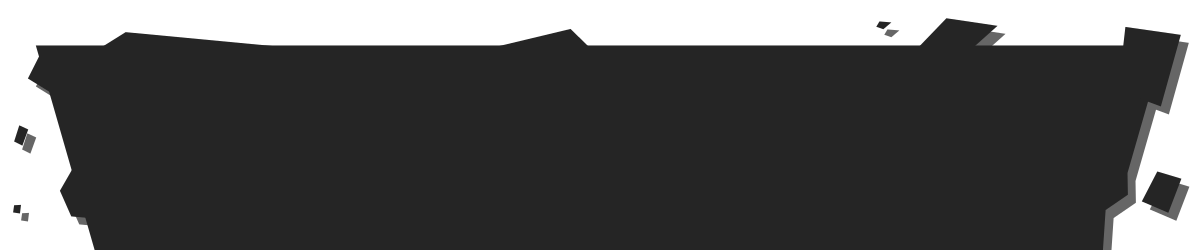
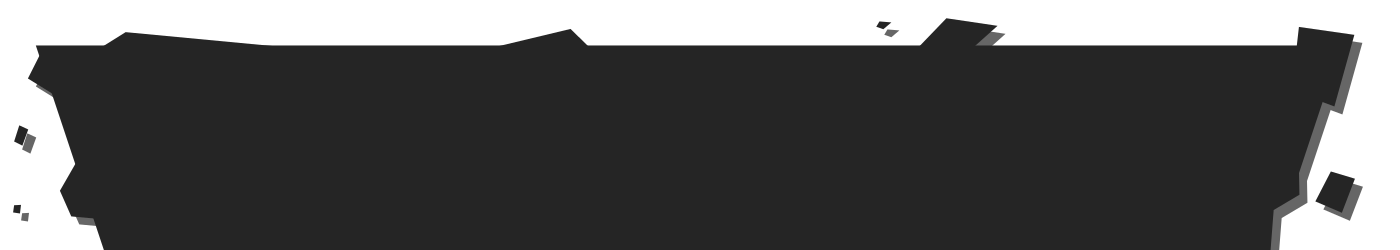
Add Save/Load

diff --git a/src/main/kotlin/gui/GameScene.kt b/src/main/kotlin/gui/GameScene.kt
@@ -266,9 +266,9 @@ class GameScene(
      * The background for the toolbar at the bottom of the screen.
      */
     private val toolbarBackground = Label(
-        width = 650,
+        width = 756,
         height = 135,
-        posX = boardGrid.posX - 650 / 2,
+        posX = boardGrid.posX - 756 / 2,
         posY = 1080 - 135,
         visual = ImageVisual("GameScene/Exports/ToolbarBg.png")
     )
@@ -277,13 +277,30 @@ class GameScene(
      * The layout for the toolbar at the bottom of the screen that contains all toolbar buttons (speed, undo, redo).
      */
     private val toolbarLayout = LinearLayout<TokenView>(
-        width = 640,
+        width = 756,
         height = 50,
         posX = boardGrid.posX,
         posY = 990,
         spacing = 40,
         horizontalAlignment = HorizontalAlignment.CENTER
     )
+
+    /**
+     * The undo button in the toolbar at the bottom.
+     */
+    private val saveButton = TokenView(
+        width = 50,
+        height = 50,
+        visual = ImageVisual("GameScene/Button_Save.png")
+    ).apply {
+        onMouseClicked = {
+            val game = root.currentGame
+
+            if (game != null) {
+                root.fileService.saveGame()
+            }
+        }
+    }
 
     /**
      * The undo button in the toolbar at the bottom.
@@ -296,8 +313,7 @@ class GameScene(
         onMouseClicked = {
             val game = root.currentGame
 
-            if (!blockMovementInput && game != null && game.undoStack.isNotEmpty()
-            ) {
+            if (!blockMovementInput && game != null && game.undoStack.isNotEmpty()) {
                 root.playerActionService.undo()
             }
         }
@@ -314,8 +330,7 @@ class GameScene(
         onMouseClicked = {
             val game = root.currentGame
 
-            if (!blockMovementInput && game != null && game.redoStack.isNotEmpty()
-            ) {
+            if (!blockMovementInput && game != null && game.redoStack.isNotEmpty()) {
                 root.playerActionService.redo()
             }
         }
@@ -367,7 +382,7 @@ class GameScene(
     //endregion
     //endregion
 
-    //region Animations
+    //region Animation Variables
 
     /**
      * This multiplier is applied to every delay and animation
@@ -431,6 +446,7 @@ class GameScene(
         backToMenuButtonPane.add(backToMenuButton)
 
         toolbarLayout.addAll(
+            saveButton,
             undoButton,
             redoButton,
             pauseButton
@@ -581,12 +597,22 @@ class GameScene(
     }
 
     override fun refreshAfterUndo() {
-        setSimulationSpeed(0)
+        val game = checkNotNull(root.currentGame) { "No game is currently running." }
+
+        if (game.currentState.players.any { it.type == PlayerType.BOT }) {
+            setSimulationSpeed(0)
+        }
+
         updateAllInstant()
     }
 
     override fun refreshAfterRedo() {
-        setSimulationSpeed(0)
+        val game = checkNotNull(root.currentGame) { "No game is currently running." }
+
+        if (game.currentState.players.any { it.type == PlayerType.BOT }) {
+            setSimulationSpeed(0)
+        }
+
         updateAllInstant()
     }
 
@@ -744,7 +770,7 @@ class GameScene(
         // Hide pause button if no bots are in the game. Show it otherwise.
         if (currentState.players.any { it.type == PlayerType.BOT }) {
             if (!toolbarLayout.contains(pauseButton))
-                toolbarLayout.add(pauseButton, 2)
+                toolbarLayout.add(pauseButton, 3)
         } else {
             if (toolbarLayout.contains(pauseButton))
                 toolbarLayout.remove(pauseButton)
@@ -775,7 +801,7 @@ class GameScene(
 
     //endregion
 
-    //region Helpers
+    //region Instant Updates
 
     /**
      * Updates all tiles, players, and other visuals in the current game without any animations.
@@ -815,6 +841,7 @@ class GameScene(
         for ((position, tile) in currentState.board) {
             val view = tileViews.forward(position)
 
+            // Simply "view.showBack()" would be better, but a bug in BGW is preventing this.
             if (tile.collapsed && view.visual != view.backVisual)
                 playAnimation(
                     FlipAnimation(
@@ -919,6 +946,10 @@ class GameScene(
             }
         }
     }
+
+    //endregion
+
+    //region Helpers
 
     /**
      * Sets the simulation speed of the current game.

diff --git a/src/main/kotlin/service/FileService.kt b/src/main/kotlin/service/FileService.kt
@@ -41,6 +41,7 @@ class FileService(private val root: RootService) : AbstractRefreshingService() {
 
         val json = Json {
             allowStructuredMapKeys = true
+            prettyPrint = true
         }
         val jsonString = json.encodeToString(game)
         File(saveFilePath).writeText(jsonString)

diff --git a/src/main/kotlin/gui/CollapsiApplication.kt b/src/main/kotlin/gui/CollapsiApplication.kt
@@ -43,5 +43,9 @@ class CollapsiApplication : BoardGameApplication("Collapsi"), Refreshable {
     override fun refreshAfterStartNewGame() {
         hideMenuScene(500)
     }
+
+    override fun refreshAfterLoad() {
+        hideMenuScene(500)
+    }
 }
 
